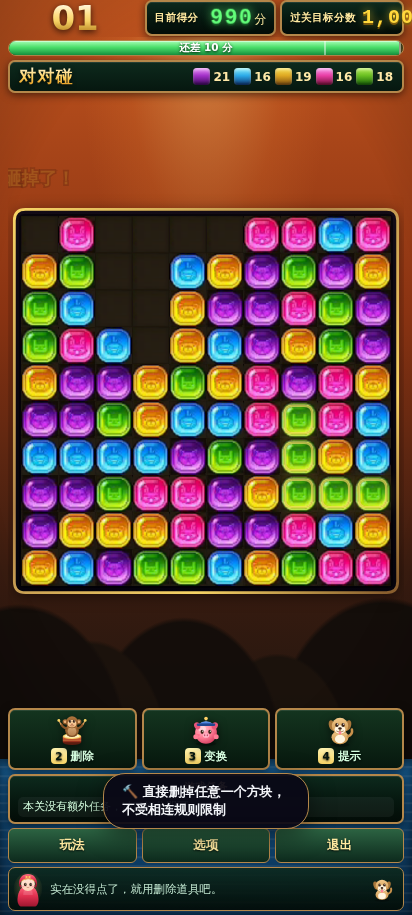
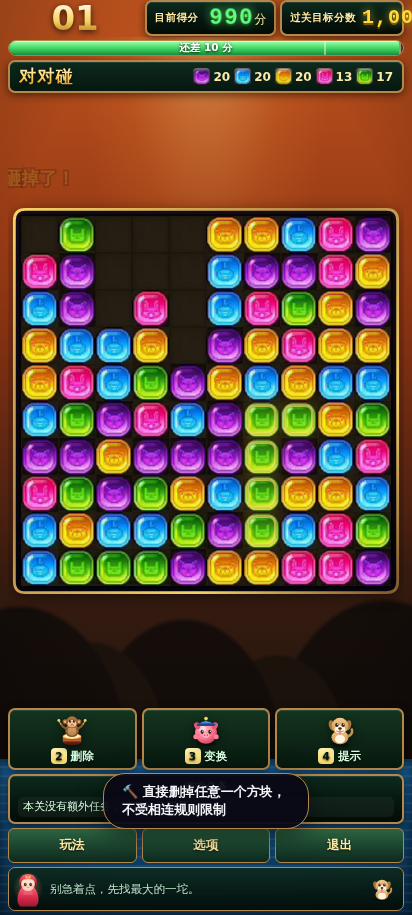
计数条与任务的小图标改用方块贴图本身
原版计数条里的不是纯色块，而是方块贴图的缩略图（带小动物脸），
任务栏同理。改成直接贴 assets/blocks/N.png，贴图缺失时仍退回
用配色画的纯色块。顺带把数字再收紧一点，免得顶到下一格。

修掉重构时遗留的一处未定义变量（_buildCounter 里的 c），
该错误会让启动流程中断、停在载入页。

引擎 60、浏览器 46、音频 11 项全部通过。

diff --git a/src/ui/stage.js b/src/ui/stage.js
@@ -11,6 +11,18 @@ import { formatScore } from '../core/util.js';
 
 /** 原版的数字不带千分位，直接整数显示 */
 const plain = (n) => String(Math.max(0, Math.round(n)));
+
+/**
+ * 计数条和任务里的小色块，原版用的就是方块贴图本身（带小动物脸），
+ * 所以这里直接贴图；贴图缺失时退回到用配色画的纯色块。
+ */
+function paintChip(node, type) {
+  const c = GEM_COLORS[type];
+  node.style.background = `linear-gradient(180deg, ${c.light}, ${c.main} 45%, ${c.dark})`;
+  node.style.backgroundImage = `url(assets/blocks/${type}.png)`;
+  node.style.backgroundSize = '100% 100%';
+  node.style.backgroundRepeat = 'no-repeat';
+}
 import { GEM_COLORS, SCORE, ITEM_META } from '../core/config.js';
 
 /** 底板的原生尺寸（坐标直接用底图像素，不做换算） */
@@ -89,11 +101,10 @@ export class StageView {
     for (let t = 0; t < colors; t++) {
       const item = el('div', 'cc-item');
       const chip = el('span', 'cc-chip');
-      const c = GEM_COLORS[t];
-      chip.style.background = `linear-gradient(180deg, ${c.light}, ${c.main} 45%, ${c.dark})`;
+      paintChip(chip, t);
       const num = el('span', 'cc-num', '0');
       item.append(chip, num);
-      item.title = `${c.name}色方块剩余数量`;
+      item.title = `${GEM_COLORS[t].name}色方块剩余数量`;
       box.appendChild(item);
       this.ccNodes.push({ item, num });
     }
@@ -119,8 +130,7 @@ export class StageView {
       const node = el('div', 'st-mission');
       if (m.type === 'color' && GEM_COLORS[m.color]) {
         const chip = el('span', 'cc-chip');
-        const c = GEM_COLORS[m.color];
-        chip.style.background = `linear-gradient(180deg, ${c.light}, ${c.main} 45%, ${c.dark})`;
+        paintChip(chip, m.color);
         node.appendChild(chip);
         node.appendChild(el('span', 'st-mission-num', String(m.need)));
       } else {

diff --git a/src/ui/hud.js b/src/ui/hud.js
@@ -113,6 +113,8 @@ export class Hud {
         const icons = el('div', 'mission-icons');
         const chip = el('span', 'cc-chip');
         chip.style.background = GEM_COLORS[m.color].main;
+        chip.style.backgroundImage = `url(assets/blocks/${m.color}.png)`;
+        chip.style.backgroundSize = '100% 100%';
         icons.appendChild(chip);
         node.appendChild(icons);
       }
@@ -140,7 +142,10 @@ export class Hud {
     for (let t = 0; t < colors; t++) {
       const item = el('div', 'cc-item');
       const chip = el('span', 'cc-chip');
+      // 和原版一致：用方块贴图本身当小图标，贴图缺失时退回纯色块
       chip.style.background = `linear-gradient(180deg, ${GEM_COLORS[t].light}, ${GEM_COLORS[t].main} 45%, ${GEM_COLORS[t].dark})`;
+      chip.style.backgroundImage = `url(assets/blocks/${t}.png)`;
+      chip.style.backgroundSize = '100% 100%';
       const num = el('span', 'cc-num', '0');
       item.append(chip, num);
       item.title = `${GEM_COLORS[t].name}色方块剩余数量`;
